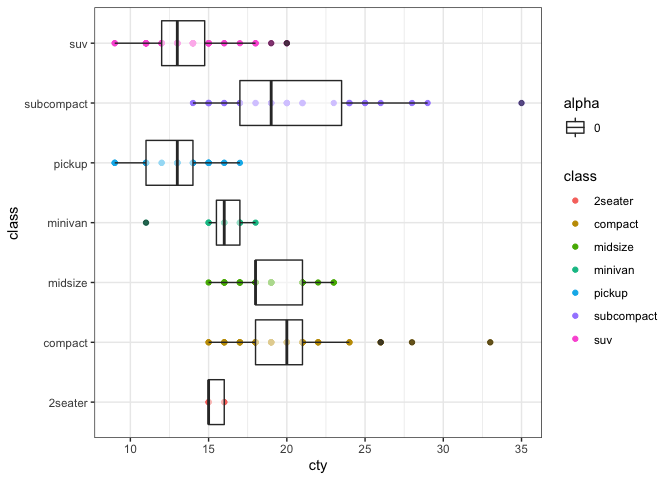
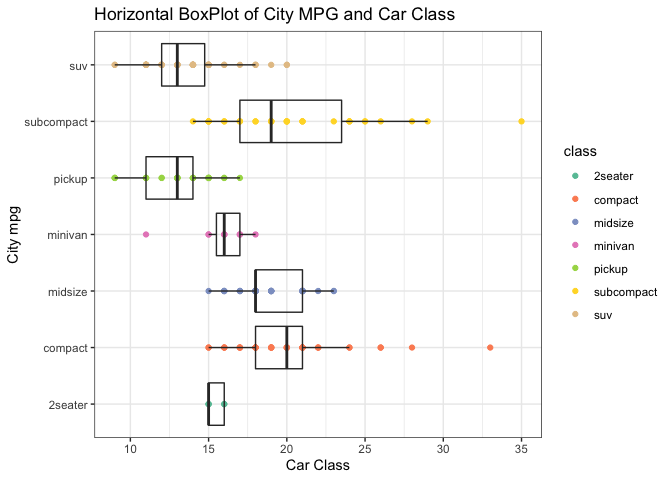
Cleaning up markdown file, getting rid of hints etc.

diff --git a/HW02_B_Mimic_starter.md b/HW02_B_Mimic_starter.md
@@ -2,39 +2,38 @@ HW02\_B\_Graph-Mimic
 ================
 Andrea Watson
 
+## HW02 Part B
+
 ``` r
 library("ggplot2")
-library("magrittr") #so I can do some piping
+library("magrittr")
 data("diamonds")
 data("mpg")
 data("iris")
-theme_set(theme_bw()) #I'll give you this one, you can set the theme individually for graphs
-#or you can set the theme for all the graphs using theme_set()
-#theme_bw() is best theme (IMO)
+theme_set(theme_bw())
 
 #for graph 3:
 library("ggrepel")
 ```
 
-## HW02 Part B
-
-For this part of the HW, the goal is to try to recreate the graphs I
-make from scratch. I will only provide the MD, not the actual code I
-used to create it besides which data I use to create it. The rest will
-be up to you.
-
-Try for all 4, but if you are struggling don’t worry about it. Try your
-best for each, if you don’t get everything that’s what the peer-review
-is for. :smile:
-
 ### Graph 1
 
 ``` r
 data("diamonds")
-#hint think about the *position* the bars are in...
 ```
 
-Using the diamonds dataset, make this graph:
+``` r
+diamonds %>% 
+  ggplot(mapping = aes(x = cut, fill = clarity)) +
+  geom_bar(position = "dodge")  +
+  ggtitle(label = "My Diamond Collection", subtitle = "Boxplot representing the number of diamonds in my diamond collection by\ntype of cut quality and clarity of diamond") + 
+  theme(plot.title = element_text(hjust = 0.5)) +
+  xlab("Diamond Cut") +
+  ylab("Number of Diamonds") +
+  annotate("rect", xmin=4.5, xmax=5.5, ymin=0, ymax=5000, alpha=0.25) +
+  annotate("text", x = 4, y = 4500, label = "My Best Diamonds,\n of course")
+```
+
 ![](HW02_B_Mimic_starter_files/figure-gfm/graph1%20code-1.png)<!-- -->
 
 ### Graph 2
@@ -43,12 +42,21 @@ Using the diamonds dataset, make this graph:
 data("iris")
 ```
 
-Using the iris dataset, make this graph:
+``` r
+iris$Species <- factor(iris$Species, levels = c("versicolor", "setosa", "virginica"))
+
+# The above changes the order to matchthe example, but I can't figure out how to have the correct colors and shapes for the correct groups.
+
+iris %>%
+  ggplot(mapping = aes(x = Sepal.Length, y = Petal.Length, color = Species, shape = Species)) +
+  geom_point() +
+  facet_wrap(~Species, scales="free_y") +
+  geom_smooth(method="lm", se=FALSE, color = "black")
+```
+
 ![](HW02_B_Mimic_starter_files/figure-gfm/graph%202%20code-1.png)<!-- -->
 
 ### Graph 3
-
-You’ll need the information in this first box to create the graph
 
 ``` r
 data("mpg")
@@ -58,29 +66,44 @@ require("ggrepel") #useful for making text annotations better, hint hint
 set.seed(42)
 ```
 
-Now using the mpg dataset and the corvette dataset, make this graph:
+``` r
+mpg$model_year <- paste(paste(toupper(substr(mpg$model, 1,1)), substr(mpg$model, 2, 8), sep=""), mpg$year, sep = ",")
+
+mpg_corvette <- mpg %>% 
+             subset(model=="corvette")
+
+mpg %>% 
+  ggplot(mapping = aes(x = displ, y = hwy)) +
+  geom_point() +
+  geom_point(data = mpg_corvette, color="blue") +
+  geom_text_repel(data = mpg_corvette, aes(label=model_year)) +
+  ggtitle("Corvettes are a bit of an outlier") +
+  scale_x_continuous(limits = c(1,8), breaks = seq(1, 8, by = 1))
+```
 
 ![](HW02_B_Mimic_starter_files/figure-gfm/graph%203%20code-1.png)<!-- -->
-
-There is a trick to getting the model and year to print off together.
-`paste()` is a useful function for this, also pasting together parts of
-file names and parts of urls together.
 
 ### Graph 4
 
 ``` r
 data(mpg)
 
-#hint for the coloring, colorbrewer and you can set palette colors and make your graphs colorblind friendly
 library(RColorBrewer)
-display.brewer.all(colorblindFriendly = T) #take a look at the colorblindfriendly options
+display.brewer.all(colorblindFriendly = T)
 ```
 
 ![](HW02_B_Mimic_starter_files/figure-gfm/unnamed-chunk-4-1.png)<!-- -->
 
-The above graph lets you see some colobrlind friendly palettes. For the
-graph below, I used Set2.
-
-Now using the above mpg dataset, make this graph
+``` r
+mpg %>%
+  ggplot(mapping = aes(x = class, y = cty)) +
+  geom_point(aes(color = class)) +
+  geom_boxplot(alpha=0) +
+  coord_flip() +
+  scale_colour_manual(values=brewer.pal(7, "Set2")) +
+  ggtitle("Horizontal BoxPlot of City MPG and Car Class") +
+  ylab("Car Class") +
+  xlab("City mpg")
+```
 
 ![](HW02_B_Mimic_starter_files/figure-gfm/graph%204%20code-1.png)<!-- -->
